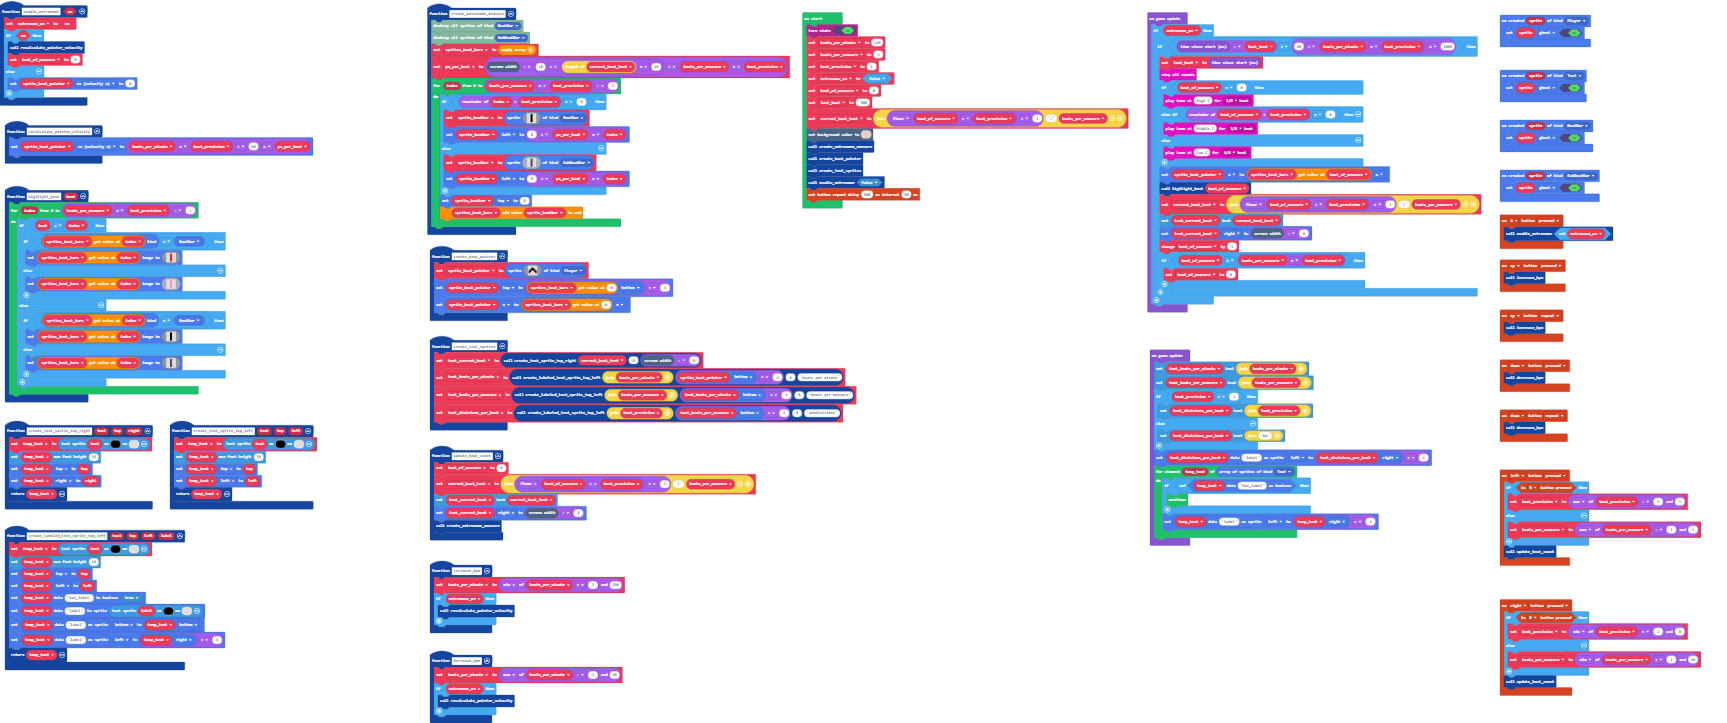
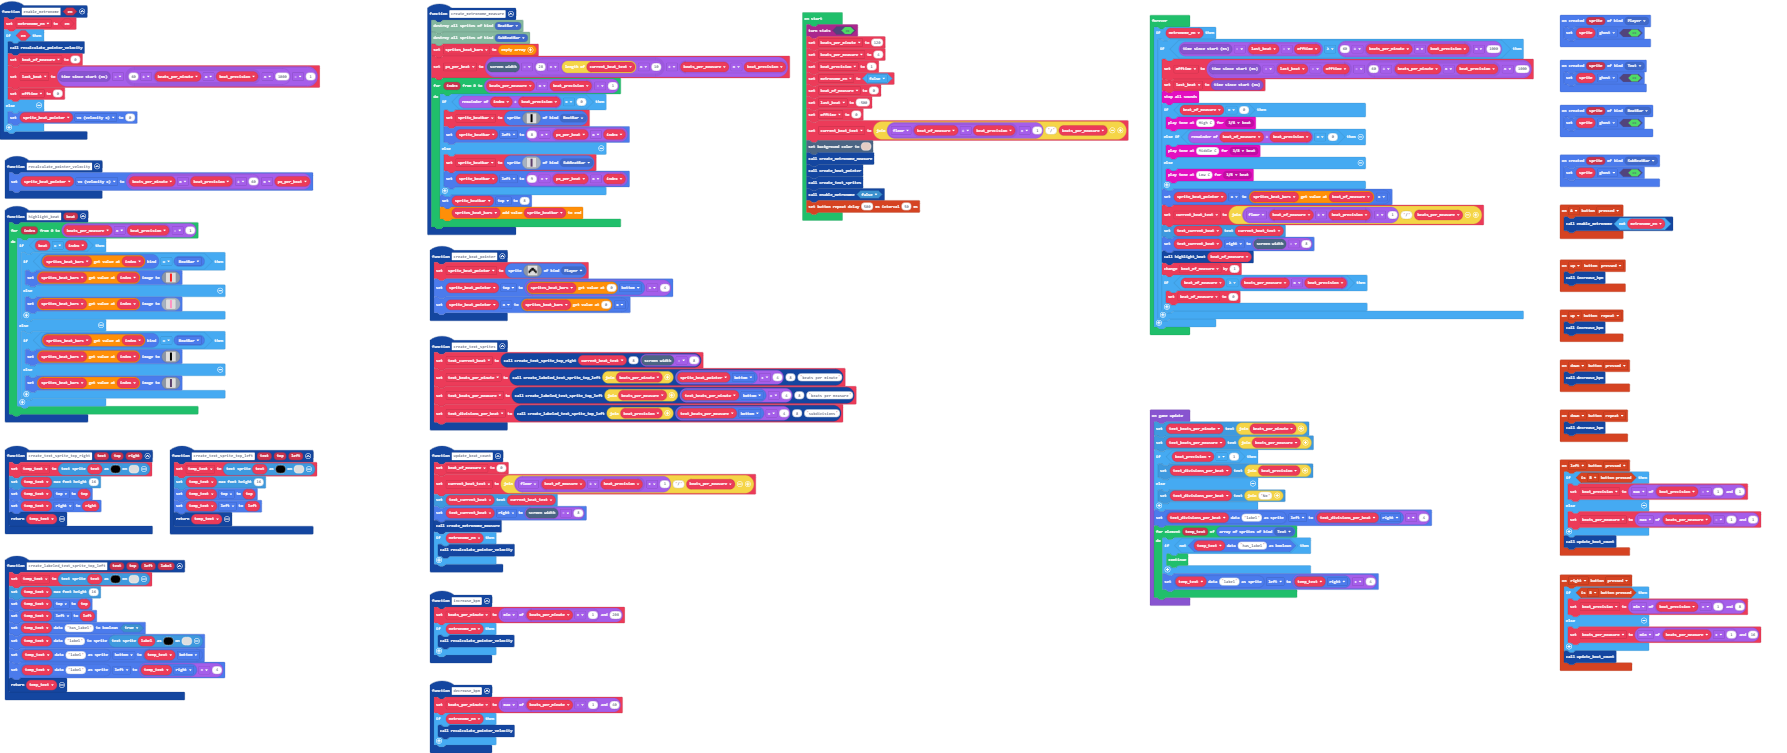
Autocorrect for time loss due to limited screen updates

diff --git a/main.ts b/main.ts
@@ -8,6 +8,9 @@ function update_beat_count () {
     text_current_beat.setText(current_beat_text)
     text_current_beat.right = scene.screenWidth() - 8
     create_metronome_measure()
+    if (metronome_en) {
+        recalculate_pointer_velocity()
+    }
 }
 sprites.onCreated(SpriteKind.SubBeatBar, function (sprite) {
     sprite.setFlag(SpriteFlag.Ghost, true)
@@ -17,6 +20,8 @@ function enable_metronome (en: boolean) {
     if (en) {
         recalculate_pointer_velocity()
         beat_of_measure = 0
+        last_beat = game.runtime() - (60 / (beats_per_minute * beat_precision) * 1000 - 1)
+        offtime = 0
     } else {
         sprite_beat_pointer.vx = 0
     }
@@ -156,6 +161,8 @@ let sprites_beat_bars: Sprite[] = []
 let sprite_beat_pointer: Sprite = null
 let text_current_beat: TextSprite = null
 let current_beat_text = ""
+let offtime = 0
+let last_beat = 0
 let beat_of_measure = 0
 let metronome_en = false
 let beat_precision = 0
@@ -167,7 +174,8 @@ beats_per_measure = 4
 beat_precision = 1
 metronome_en = false
 beat_of_measure = 0
-let last_beat = -500
+last_beat = -500
+offtime = 0
 current_beat_text = "" + (Math.floor(beat_of_measure / beat_precision) + 1) + "/" + beats_per_measure
 scene.setBackgroundColor(13)
 create_metronome_measure()
@@ -175,30 +183,6 @@ create_beat_pointer()
 create_text_sprites()
 enable_metronome(false)
 controller.configureRepeatEventDefaults(500, 50)
-game.onUpdate(function () {
-    if (metronome_en) {
-        if (game.runtime() - last_beat >= 60 / (beats_per_minute * beat_precision) * 1000) {
-            last_beat = game.runtime()
-            music.stopAllSounds()
-            if (beat_of_measure == 0) {
-                music.playTone(523, music.beat(BeatFraction.Eighth))
-            } else if (beat_of_measure % beat_precision == 0) {
-                music.playTone(262, music.beat(BeatFraction.Eighth))
-            } else {
-                music.playTone(131, music.beat(BeatFraction.Eighth))
-            }
-            sprite_beat_pointer.x = sprites_beat_bars[beat_of_measure].x
-            highlight_beat(beat_of_measure)
-            current_beat_text = "" + (Math.floor(beat_of_measure / beat_precision) + 1) + "/" + beats_per_measure
-            text_current_beat.setText(current_beat_text)
-            text_current_beat.right = scene.screenWidth() - 8
-            beat_of_measure += 1
-            if (beat_of_measure >= beats_per_measure * beat_precision) {
-                beat_of_measure = 0
-            }
-        }
-    }
-})
 game.onUpdate(function () {
     text_beats_per_minute.setText("" + beats_per_minute)
     text_beats_per_measure.setText("" + beats_per_measure)
@@ -213,5 +197,30 @@ game.onUpdate(function () {
             continue;
         }
         sprites.readDataSprite(temp_text, "label").left = temp_text.right + 4
+    }
+})
+forever(function () {
+    if (metronome_en) {
+        if (game.runtime() - (last_beat - offtime) >= 60 / (beats_per_minute * beat_precision) * 1000) {
+            offtime = game.runtime() - (last_beat - offtime) - 60 / (beats_per_minute * beat_precision) * 1000
+            last_beat = game.runtime()
+            music.stopAllSounds()
+            if (beat_of_measure == 0) {
+                music.playTone(523, music.beat(BeatFraction.Eighth))
+            } else if (beat_of_measure % beat_precision == 0) {
+                music.playTone(262, music.beat(BeatFraction.Eighth))
+            } else {
+                music.playTone(131, music.beat(BeatFraction.Eighth))
+            }
+            sprite_beat_pointer.x = sprites_beat_bars[beat_of_measure].x
+            current_beat_text = "" + (Math.floor(beat_of_measure / beat_precision) + 1) + "/" + beats_per_measure
+            text_current_beat.setText(current_beat_text)
+            text_current_beat.right = scene.screenWidth() - 8
+            highlight_beat(beat_of_measure)
+            beat_of_measure += 1
+            if (beat_of_measure >= beats_per_measure * beat_precision) {
+                beat_of_measure = 0
+            }
+        }
     }
 })
